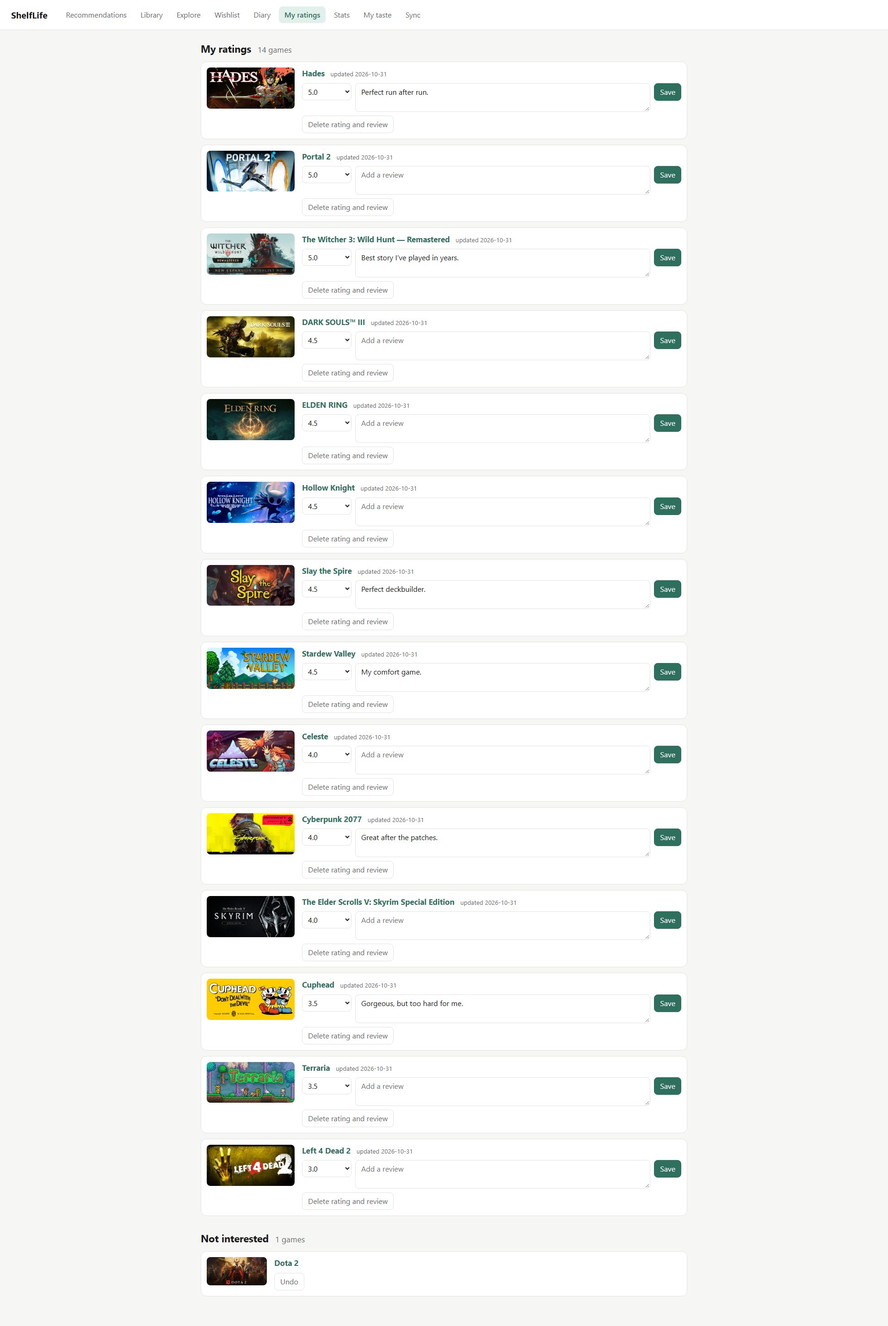
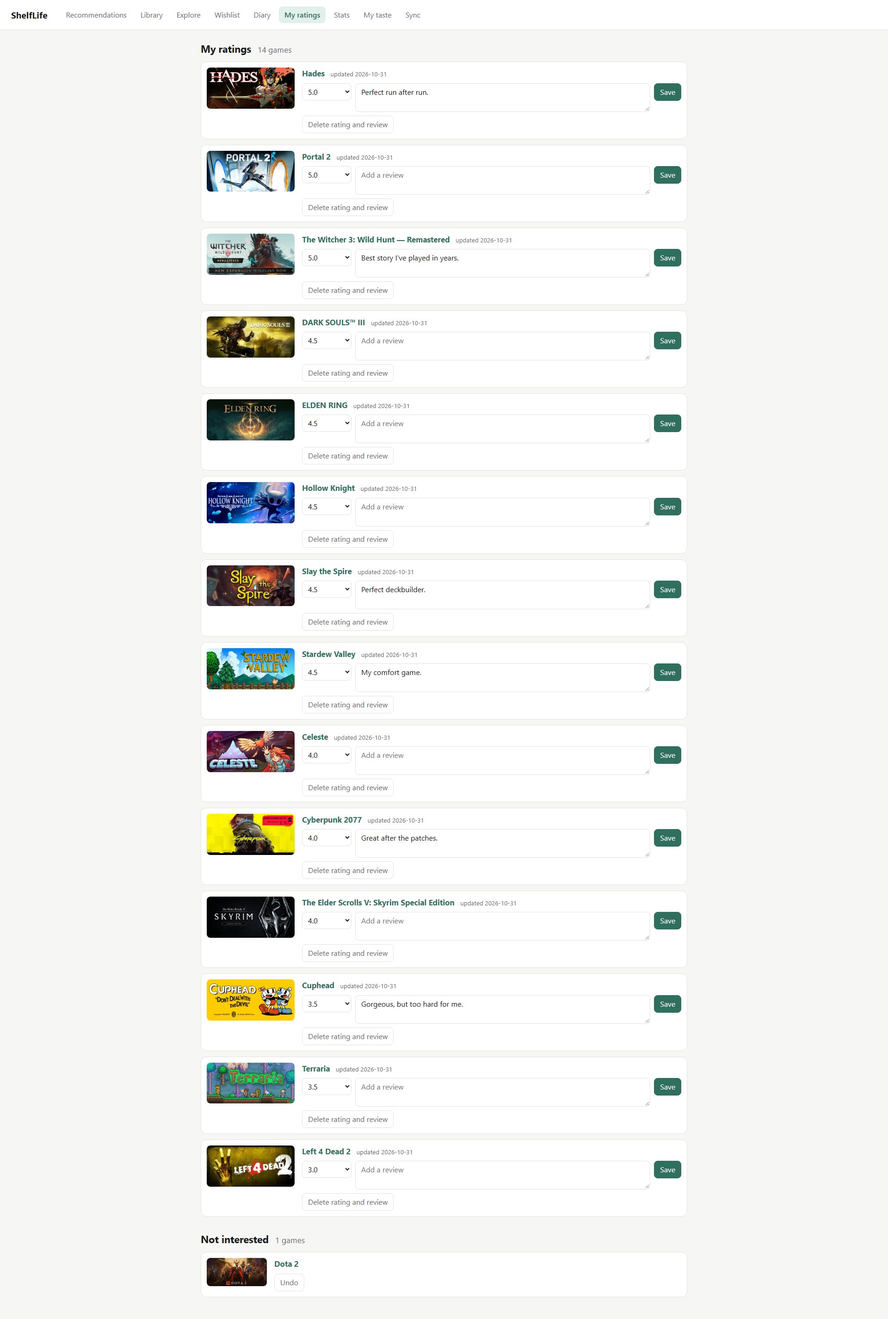
Update the README and retake the screenshots
The README now describes the app as it is: setup reduced to filling in .env, starting the web app and pressing Sync; the seven Sync steps, including how long other players play each game; how play is scored against your library and the game's own players; the three taste modes and how the mix shares them; the cleaned description words; hiding games for adults; the host check; the evaluation tool; and what is stored and sent (five numbers per game from reviewers' hours, never who wrote a review). Screenshots retaken on the demo data, which now has descriptions and other players' hours.

diff --git a/README.md b/README.md
@@ -7,16 +7,16 @@
 
 **Status:** early development. It runs entirely on your own computer: nothing is hosted, and your data never leaves your machine.
 
-Steam knows what you own and how long you've played, but not what you *thought* of a game, and it can't tell "I loved this 6-hour game" from "I gave up on this 150-hour RPG." ShelfLife combines your ratings, your playtime, and your achievements (and when you unlocked them) into a taste it learns from your games one by one, then recommends games from your backlog, your Steam Family library, and games you don't own yet.
+Steam knows what you own and how long you've played, but not what you *thought* of a game, and it can't tell "I loved this 6-hour game" from "I gave up on this 150-hour RPG." ShelfLife combines your ratings with how you played each game (your hours against your other games and against how long the game's own players play it, your achievements, and when you played) into a taste it learns from your games one by one, then recommends games from your backlog, your Steam Family library, your wishlist and games you don't own yet.
 
 ## Features
 
-- **Steam import:** owned games, playtime, store details and descriptions, community tags, review counts and achievements.
+- **Steam import:** owned games, playtime, store details and descriptions, community tags, review counts, achievements, and how long each game's players usually play it.
 - **Family Sharing import** (optional): games you can play through a Steam Family.
 - **Wishlist:** your Steam wishlist, read by Sync and ranked by how well each game fits you (it never teaches your taste).
 - **Diary:** 0.5–5 star ratings, reviews, "not interested" marks, a status (playing, played, dropped) with dates, and favorites, stored locally.
-- **Recommendations:** four lists (backlog, family, your wishlist, games you don't own), each pick with a reason.
-- **Web app:** recommendations, a library you can rate and edit in place, an Explore page with a button to find more games, similar games for any game, a wishlist page, a diary, stats, game pages, your taste profile, and a Sync button.
+- **Recommendations:** four lists (backlog, family, your wishlist, games you don't own), each pick with a reason. Learn from your ratings, from how you play, or from both.
+- **Web app:** recommendations, a library you can rate and edit in place, an Explore page with a button to find more games, similar games for any game, a wishlist page, a diary, stats, game pages, your taste profile, a switch to hide games for adults, and a Sync button.
 
 ## Screenshots
 
@@ -30,7 +30,7 @@ Taken on demo data: popular Steam games with made-up playtime, ratings, diary en
 
 ![Library](docs/screenshots/library.jpg)
 
-**Explore**, for games you don't own: a panel to find more games from Steam, and a tag picker with "all of / any of" (here filtered to Platformer or Puzzle):
+**Explore**, for games you don't own: a panel to find more games from Steam, and a tag picker with "all of / any of":
 
 ![Explore](docs/screenshots/explore.jpg)
 
@@ -44,13 +44,13 @@ Taken on demo data: popular Steam games with made-up playtime, ratings, diary en
 
 ![Stats](docs/screenshots/stats.jpg)
 
-**Game page**, showing why a game fits you, how you played it, and where you are with it, and **My ratings**:
+**Game page**, showing why a game fits you, how much your play says you liked it (against your other games and against the game's own players), and where you are with it, and **My ratings**:
 
 ![Game page](docs/screenshots/game-page.jpg)
 
 ![My ratings](docs/screenshots/my-ratings.jpg)
 
-**My taste**, the tag profile behind it all and the choice of what it learns from, and **Sync**, which brings everything up to date in the background:
+**My taste**, the tag profile behind it all, what it learns from, and the switch for games for adults, and **Sync**, which brings everything up to date in the background:
 
 ![My taste](docs/screenshots/taste.jpg)
 
@@ -75,7 +75,7 @@ pip install -r requirements.txt
 
 - **API key:** create one at <https://steamcommunity.com/dev/apikey> (any domain name works, e.g. `localhost`). Keep it private.
 - **SteamID:** your SteamID64, a 17-digit number (`XXXXXXXXXXXXXXXXX`). If your profile address has a number after `/profiles/`, that's it; otherwise paste your profile address into <https://steamid.io>.
-- **Privacy:** in your Steam profile's *Privacy Settings*, set **Game details** to **Public**.
+- **Privacy:** in your Steam profile's *Privacy Settings*, set **Game details** to **Public** (and the wishlist too, if you want it read).
 
 **3. Configure**
 
@@ -89,31 +89,30 @@ STEAM_ID=your_64_bit_steam_id_here
 **4. Run**
 
 ```bash
-python -m scripts.top_games      # quick check that your key works
-python -m scripts.sync           # library, store details and tags
-python -m scripts.achievements   # achievements and when you unlocked them
-python -m scripts.discover       # a pool of well-reviewed games you don't own
 python -m scripts.web            # then open http://127.0.0.1:8000
 ```
 
-You can also sync from the web app: its **Sync** page runs the same steps (library, wishlist, achievements, store details, descriptions, review counts) in the background with a progress bar and a Stop button, re-reads what could have changed, and carries on where it left off if you stop it. The fetching scripts are deliberately slow to respect the services' limits (about 3 seconds per game, so 300 games take roughly 15 minutes). They save progress as they go: stop with Ctrl-C and run again to continue. Re-run `sync` and `achievements` any time to refresh your playtime.
+Open the **Sync** page and press **Sync now**. It reads your library, wishlist, achievements, store details, game descriptions, review counts and how long other players play your games, in the background with a progress bar and a Stop button, and carries on where it left off if you stop it. It is deliberately slow to respect the services' limits, so the first sync of a few hundred games takes a while (the page says roughly how long); later syncs only re-read what could have changed. Then use **Find more games** on Explore to add games you don't own.
+
+The same steps exist as command-line scripts (below), for example `python -m scripts.top_games` as a quick check that your key works. Your database is `shelflife.db` in the project folder, wherever you start ShelfLife from.
 
 **If something goes wrong**
 
 - *"No games returned"*: *Game details* isn't Public, or `STEAM_ID` isn't the 17-digit ID.
 - *"Steam rejected the API key"*: check `STEAM_API_KEY`.
-- *"rate limiting"*: wait a few minutes and run the script again.
-- *Start over*: delete `shelflife.db` (your ratings live in it) and run step 4 again.
+- *"rate limiting"*: wait a few minutes and sync again; nothing read so far is lost.
+- *Start over*: delete `shelflife.db` (your ratings live in it) and sync again.
 
 ### Other commands
 
 | Command | What it does |
 |---|---|
 | `python -m scripts.sync [--limit N] [--fill-tags] [--descriptions]` | Import the library; fetch details and tags; or read the store text of games that lack it |
+| `python -m scripts.achievements` | Achievements and when you unlocked them |
+| `python -m scripts.discover [--per-tag N] [--tags "A,B"]` | Find new games you don't own (the same as Explore's button) |
+| `python -m scripts.wishlist` | Read your Steam wishlist (needs only your SteamID) |
 | `python -m scripts.scores [N]` | Rank your played games by engagement score |
 | `python -m scripts.recommend [N]` | Print recommendations in the terminal |
-| `python -m scripts.wishlist` | Read your Steam wishlist (needs only your SteamID) |
-| `python -m scripts.discover [--per-tag N] [--tags "A,B"]` | Find new games you don't own (the same as Explore's button) |
 | `python -m scripts.feedback not-interested "Name"` | Dismiss a game (also `undo`, `list`) |
 | `python -m scripts.import_family [file]` | Import a Family Sharing export (below) |
 | `python -m scripts.hours [--template]` | Enter family-game hours from a file |
@@ -121,17 +120,19 @@ You can also sync from the web app: its **Sync** page runs the same steps (libra
 
 ## Web app
 
-`python -m scripts.web`, then open <http://127.0.0.1:8000>. It listens only on your own machine and has no login, so don't expose it to a network.
+`python -m scripts.web`, then open <http://127.0.0.1:8000>. It listens only on your own machine, answers only to `127.0.0.1` and `localhost`, and has no login, so don't expose it to a network. Run it as a single process.
 
 - **Recommendations:** your backlog, family, wishlist and discovery lists, paged, each pick with the games and tags behind it. Rate or dismiss from the card.
 - **Library:** your owned and family games with covers. Set a rating or a status, or type hours for family games, right in the row. Search by name, filter by tags or status, sort by most played or **recently played**, or use the **Recommended** filter to keep the unplayed games that fit you best (top 50%, 25% or 10%).
-- **Wishlist:** your Steam wishlist ranked by how well each game fits your taste, with your own rank and the date you added each one. Search, the tag picker and the best-fit cut work as in Explore, and you can sort by fit, your own order, newest added, reviews or name. It is read by Sync (the wishlist must be public on Steam) and only shows games whose store details have arrived. Wishlisted games also get a badge and an "only my wishlist" filter in Explore, a "From your wishlist" list on the home page (instead of in "To discover"), and a note on their game page. Wanting a game is not liking it, so a wishlist never changes your taste profile.
+- **Wishlist:** your Steam wishlist ranked by how well each game fits your taste, with your own rank and the date you added each one. Search, the tag picker and the best-fit cut work as in Explore, and you can sort by fit, your own order, newest added, reviews or name. It is read by Sync (the wishlist must be public on Steam) and only shows games whose store details have arrived. Wishlisted games also get a badge and an "only my wishlist" filter in Explore, a "From your wishlist" list on the home page (instead of in "To discover"), and a note on their game page. Wanting a game is not liking it, so a wishlist never changes your taste.
 - **Explore:** games you don't own, ranked by fit, with the same filter, search, tags and sorting. **Find more games** adds new ones for the genres or tags you pick (or the tags you like most), or with no tags at all (the best-reviewed games from SteamSpy's list of popular games), for a number of games you choose, and shows its progress. Every game page has **Games like this** (Explore ranked by how close games are to that one) and a button to search Steam for new games like it.
 - **Diary:** one tab each for playing, played, dropped and your favorites, newest first, paged, with search and a tag filter. Set a status, optional dates and a favorite on a game's page; dates are never filled in for you. "Played" means finished or played as much as you wanted, so it fits endless multiplayer games too.
 - **Tags:** pick several tags in the Library, Explore or Diary, and choose whether a game needs all of them or any of them. Tags match whole and ignore case, a game "has" a tag if it is among its 20 most voted, and the box suggests the tags that exist.
-- **Sync:** one button for your library, achievements, store details, game descriptions and review counts, with progress and a Stop button. A sync re-reads what could have changed: achievements for games you played since they were last read, or not read for 30 days (developers add achievements); store details for new games, games that came back empty a week ago, and the 30 oldest when they are over 90 days old; the store's "About this game" text for games that have their details but not the text yet (a one-time catch-up, one store call per game; new games get it with their details); and review counts for every game that has none or whose counts are a month old. **Check everything again** ignores those limits and re-reads every game (slow, and the page says how long). It saves as it goes, so a stopped sync resumes, it needs `STEAM_API_KEY` and `STEAM_ID` in `.env`, and it never runs at the same time as a game search.
+- **Sync:** one button, seven steps: your library, wishlist, achievements, store details, game descriptions, review counts, and how long other players play each game you've played. A sync re-reads what could have changed: achievements for games you played since they were last read, or not read for 30 days; store details for new games, games that came back empty a week ago, and the 30 oldest when they are over 90 days old; descriptions once; review counts a month old; other players' hours every six months. **Check everything again** ignores those limits (slow, and the page says how long). It saves as it goes, needs `STEAM_API_KEY` and `STEAM_ID` in `.env`, and never runs at the same time as a game search.
 - **Stats:** games and hours in your library, your diary by status, games finished per year, how you rate, and your most played games.
-- **Game page, My ratings, My taste:** why a game fits you and how you played it; your ratings and reviews (edit or delete in place); and the tag profile behind it all, where you also choose whether your taste learns from your ratings, from how you play, or from both.
+- **Game page:** why a game fits you, the closest games you liked, how you played it (and how much that play says you liked it, against your other games and the game's own players), your verdict, status and favorite.
+- **My ratings:** your ratings and reviews, paged, to edit or delete in place, and the games you marked "not interested".
+- **My taste:** the tags your taste leans toward and away from, what it learns from (your ratings, how you play, or both), and **Hide games for adults** (on by default): games whose community tags are mostly about sexual content are left out of recommendations and Explore, while games that merely have adult scenes (Cyberpunk 2077, Baldur's Gate 3) stay. Your library, diary and wishlist page always show every game.
 
 ## Family Sharing (optional)
 
@@ -139,7 +140,7 @@ Steam's Web API only lists games on your own account. ShelfLife imports Family S
 
 1. Log in at <https://store.steampowered.com>, open DevTools (F12) > Console, paste [`tools/export_family_library.js`](tools/export_family_library.js) and press Enter. It downloads `family-library.json`.
 2. Put that file in a `data/` folder (create it) and run `python -m scripts.import_family`.
-3. Run `python -m scripts.sync` and `python -m scripts.achievements` again.
+3. Sync again.
 
 The script gets a short-lived token from the Steam store using your own cookies and calls `IFamilyGroupsService/GetSharedLibraryApps`. The token stays in the tab's memory and is never printed, saved or sent anywhere. These endpoints are undocumented by Valve and may change. The export lists which games your family members own, so keep it private.
 
@@ -147,7 +148,7 @@ The script gets a short-lived token from the Steam store using your own cookies 
 
 ## Data and terms
 
-Data comes from the Steam Web API (library, playtime, achievements), the Steam store (details, covers), Valve's `IUserReviewsService` (review counts), and SteamSpy (community tags, 1 request/second). ShelfLife follows the [Steam Web API Terms of Use](https://steamcommunity.com/dev/apiterms): your key stays in `.env` on your machine, data is fetched only when you run a command or press a button, everything is stored locally, and it is not affiliated with or endorsed by Valve. A few endpoints used (Steam store `appdetails`, the family export) are undocumented and may change.
+Data comes from the Steam Web API (library, playtime, achievements), the Steam store (details, descriptions, covers), Valve's `IUserReviewsService` (review counts, and how long reviewers played), and SteamSpy (community tags, 1 request/second). ShelfLife follows the [Steam Web API Terms of Use](https://steamcommunity.com/dev/apiterms): your key stays in `.env` on your machine, data is fetched only when you run a command or press a button, everything is stored locally, and it is not affiliated with or endorsed by Valve. A few endpoints used are undocumented and may change (see Privacy).
 
 Personal data lives in `shelflife.db`, `.env` and the `data/` folder, all git-ignored.
 
@@ -158,45 +159,54 @@ ShelfLife runs entirely on your own computer. It has no server, no account, no a
 **What it stores, and where**
 
 - `.env`: your Steam API key and SteamID.
-- `shelflife.db`: your library (games, hours, when you last played, achievement counts and when you unlocked them), your wishlist (game ids, your own rank and the date you added each), the hours you type in for family games, which games are shared with you through Family Sharing, your diary (ratings, reviews, statuses and dates, favorites, "not interested"), your settings, and public store data for each game (names, descriptions including the store's "About this game" text, tags, review counts, cover addresses).
+- `shelflife.db`: your library (games, hours, when you last played, achievement counts and when you unlocked them), your wishlist (game ids, your own rank and the date you added each), the hours you type in for family games, which games are shared with you through Family Sharing, your diary (ratings, reviews, statuses and dates, favorites, "not interested"), your settings, and public store data for each game (names, descriptions including the store's "About this game" text, tags, review counts, cover addresses, and five numbers summarising how long its reviewers have played it; never who wrote a review or what it says).
 - `data/`: files you create or import, such as the Family Sharing export (it lists which games your family members own, so keep it private) and old CSV files.
 
 Delete `.env`, `shelflife.db` and `data/` and nothing of yours is left.
 
 **What it sends, and to whom** (only when you run a command or press a button)
 
-- **Valve's Steam Web API** (`api.steampowered.com`): your API key and SteamID, to read your own library and achievements, and your key to look up game names. Your SteamID alone (no key) is sent to read your wishlist. Review counts and global achievement rates are asked for by game id alone.
+- **Valve's Steam Web API** (`api.steampowered.com`): your API key and SteamID, to read your own library and achievements, and your key to look up game names. Your SteamID alone (no key) is sent to read your wishlist. Review counts, reviewers' hours and global achievement rates are asked for by game id alone.
 - **The Steam store** (`store.steampowered.com`) and **SteamSpy** (`steamspy.com`): game ids and tag names only. They never receive your key, SteamID, ratings or diary.
 - **Your browser** loads cover images from Steam's servers when you open a page.
-- Nothing else: no outside fonts, scripts or analytics. The web app listens only on `127.0.0.1` and has no login, so don't expose it to a network.
+- Nothing else: no outside fonts, scripts or analytics. The web app listens only on `127.0.0.1`, answers only to `127.0.0.1` and `localhost` (so another website can't reach it by pointing its own name at your computer), and has no login, so don't expose it to a network.
 
 **Steam's terms**
 
-ShelfLife is a personal tool. Each person uses their own API key (it is personal to you, so don't share it or commit it) to read their own account, within Valve's limit of 100,000 calls a day (a full sync uses a few hundred), and it is not affiliated with or endorsed by Valve. The [Steam Web API Terms of Use](https://steamcommunity.com/dev/apiterms) ask applications to say what Steam data they store; the list above is that statement.
+ShelfLife is a personal tool. Each person uses their own API key (it is personal to you, so don't share it or commit it) to read their own account, within Valve's limit of 100,000 calls a day (a full sync uses a few hundred, plus up to five review pages a game for players' hours), and it is not affiliated with or endorsed by Valve. The [Steam Web API Terms of Use](https://steamcommunity.com/dev/apiterms) ask applications to say what Steam data they store; the list above is that statement.
 
-Most of what ShelfLife reads comes from Valve's documented Web API. A few things come from endpoints Valve doesn't document: the store's `appdetails` endpoint, the review counts, the tag votes read from a game's store page when SteamSpy has none, your wishlist (`IWishlistService`), and the Family Sharing export. They are read-only lookups, throttled and run only when you ask (the family export reads only your own account). Because they are undocumented they may change or stop working, and the [Steam Subscriber Agreement](https://store.steampowered.com/subscriber_agreement/) has a general rule about bots and scripts on Steam, whose examples are about cheating and account abuse. Using them is your choice; only the Family Sharing import is optional.
+Most of what ShelfLife reads comes from Valve's documented Web API. A few things come from endpoints Valve doesn't document: the store's `appdetails` endpoint, the reviews (counts and reviewers' hours), the tag votes read from a game's store page when SteamSpy has none, your wishlist (`IWishlistService`), and the Family Sharing export. They are read-only lookups, throttled and run only when you ask (the family export reads only your own account). Because they are undocumented they may change or stop working, and the [Steam Subscriber Agreement](https://store.steampowered.com/subscriber_agreement/) has a general rule about bots and scripts on Steam, whose examples are about cheating and account abuse. Using them is your choice; only the Family Sharing import is optional.
 
 Game names, store data and cover art belong to Valve and the game publishers. The licence below covers ShelfLife's code only.
 
 ## How recommendations work
 
-**1. Engagement score.** For each game you've played, a sum of points (weights in `shelflife/score.py` and `shelflife/recency.py`):
+**1. How much your play says you liked a game** (`shelflife/play.py`). Hours alone mislead: two hours can be all of a short game, and a hundred hours of an endless one can be ordinary. So each signal is placed among comparable play, as a percentile:
 
-| Signal | Points |
+| Signal | Compared with |
 |---|---|
-| Playtime | `log10(1 + hours)`: 10h = 1, 100h = 2, 1000h = 3 |
-| Achievements | up to 2 × share unlocked (games with 10+ achievements) |
-| Rare achievement | +1 if you hold one under 5% of players have, +0.5 if under 10% |
-| Still playing | +0.5 if played in the last two weeks |
-| Recency | +0.5 (all play is current) to −0.5 (ancient); 0 with no date evidence |
+| Hours | your other played games, and (up to half) the hours the game's own reviewers have played it |
+| Achievements unlocked | your other games (games with 10+ achievements) |
+| Rarest achievement you hold | your other games (rarer = more devoted) |
+| When you played | a small shift up for current play, down for play long past, from your achievement unlock dates |
 
-*Recency:* Steam gives only lifetime hours and a last-played date, and one minute today resets that date. So the unlock dates of your achievements show *when* you really played: each unlock counts less the older it is (halving every 3 years). A game you play right now counts as fully current.
+A game's play score is the average of the signals it has (a missing one is left out, not counted as zero), so 50% is your typical played game. Other players' hours come from up to 500 of the game's reviews, positive and negative reviewers weighed by the game's real share, kept as percentiles so a few players with thousands of idle hours move only the top end. They count for at most half, because people who love a game keep playing it long after the end. Games under an hour are your backlog, not a verdict.
 
-**2. How much you liked each game.** Each game you have a verdict on gets one number from −1 (hated) to +1 (loved). What it is built from is your choice, on the My taste page: *Mix of both* (the default), *Your ratings only* or *How you play only*. In the mix, a game you rated counts by its rating, `(rating − 3) / 2`, from −1 to +1, however much you played it. A game you played but did not rate counts as the rating its play suggests: how much you played it (the engagement score scaled from 0 to 1) times what play has been worth in your own rated games, which is learned from them: a line through zero fitted to the games you both rated and played (rating against how much you played), started at one half and pulled toward your games as they come in. If the games you play most are the ones you rate high, play counts for more, up to a full 5-star rating; if you play games you rate low, it counts for less, down to nothing. No fixed split between the two. "Not interested" counts as 2 stars and a favorite as 5 until you rate the game. In *ratings only* a game you did not rate teaches nothing; in *how you play only* ratings, favorites and "not interested" are ignored for taste ("not interested" still hides the game). A status (playing, played, dropped) is a record only: it takes the game out of the recommendations but does not change your taste, because "dropped" can mean a story game quit halfway or an endless multiplayer game you left after hundreds of hours.
+The older **engagement score** (`shelflife/score.py`: points for hours, achievements, rare achievements, current play and recency) is still shown in the Library and on game pages.
 
-**3. Learning your taste.** Every game is described two ways: by its tags, each counting by how relevant it is to the game (its votes relative to the game's top tag, squared, for the top 15 tags) and how rare it is in your library; and by the words of the store's "About this game" text, each counting by how rare it is across all games. Two games are as alike as those descriptions are, half tags and half words (`shelflife/learned.py`, `TEXT_WEIGHT`), so two games with different tags but the same story still match, and a sequel matches its original by the names and characters they share. A ridge regression then learns from the number above for every game you have a verdict on, which kinds of games you like, and predicts it for every other game. Because it is fitted to your games one by one, a game very close to a favourite stays close to it; the old way, one average tag profile, watered every favourite down. It learns more with every game you rate, and nothing is sent anywhere: it is a few hundred games of arithmetic, kept until your ratings or the games change. Until the descriptions have been read (the Sync page does it, once), games without text are compared on their tags alone. The tag profile (your games' tags added up by those numbers) is still what the My taste page shows and what picks the tags for a search; the "Because you played…" lines name the games you liked that a pick is closest to. On a test with 147 of the owner's games, predicting how much each was liked from the other 146, the old tag profile scored a rank correlation of +0.26, the learned taste on tags alone +0.41, and with the descriptions +0.43. Predicting the star ratings of 142 rated games the same way, ratings only scored +0.44, the mix +0.45 and how you play alone +0.06: play is a weak guide to how you would rate a game, which is why the mix lets it speak only for games you did not rate. A small sample, so take the exact numbers lightly.
+**2. What your taste learns from.** Your choice, on the My taste page:
 
-**4. Finding new games.** Explore's **Find more games** button (and `python -m scripts.discover`) works like this: SteamSpy lists every game under a tag, with its review counts. That list is loose (any game with even a few votes for the tag is in it), so games you already have and games with under 300 reviews are dropped, the rest are ranked by the lower bound of their positive-review share (more reviews rank higher at equal praise), and then, going down the ranking with the tags taking turns, each game's own tag votes are read and the game is kept only if the searched tag is among its 10 most voted. The others are remembered, with their tags, so they are not fetched again. Kept games get their store details fetched, about 5 seconds a game in all, and then take part in the rankings. For "games like this one", the tags searched are that game's most distinctive ones and a game must also be at least 15% similar to it. SteamSpy matches tag names in a particular letter case (and a few under older names), so several spellings are tried. Without tags, the search reads SteamSpy's popularity-ordered list instead (up to 3 pages of 1,000 games, a minute apart as SteamSpy asks, and only as many as needed) and keeps the best-reviewed games you don't have, with no tag check; raise "With at least" to 1,000 reviews to favour better-known games.
+- *Your ratings only*: star ratings, `(rating − 3) / 2`, from −1 to +1. Nothing else.
+- *How you play only*: the play score of every game you played, from −0.5 (far less than usual) to +1 (far more), 0 being your typical game. Ratings, favorites and "not interested" are ignored.
+- *Mix of both* (the default): a taste learned from your ratings and a taste learned from your play, added up. Each counts by how much of your ratings it explains, measured with every rated game left out in turn (its squared correlation with them), starting from two thirds ratings, one third play until there are enough ratings to tell. Here a favorite you didn't rate counts as 5 stars and "not interested" as 2.
+
+A status (playing, played, dropped) is a record only: it takes the game out of the recommendations but never changes your taste. "Not interested" always hides the game.
+
+**3. Learning your taste** (`shelflife/learned.py`). Every game is described two ways: by its tags, each counting by how relevant it is to the game (its votes relative to the game's top tag, squared, for the top 15 tags) and how rare it is in your library; and by the words of the store's "About this game" text that tell games apart (store boilerplate dropped; words used by at least 3 games and at most 15% of them; a description left with fewer than 20 such words, such as one written in another script, counts as none). Two games are as alike as those descriptions are, half tags and half words, so two games with different tags but the same story still match, and a sequel matches its original by the names they share. A ridge regression then learns, from every game you have a verdict on, which kinds of games you like, and predicts that for every other game. Because it is fitted to your games one by one, a game very close to a favourite stays close to it. Nothing is sent anywhere: it is a few hundred games of arithmetic, kept between pages until your data changes.
+
+**How good is it?** `python tools/evaluate.py` predicts every game you rated (and every game you ranked, if you keep `data/rankings.csv`) with everything about that game left out, and compares the predictions with your own verdicts. On the owner's 144 ratings the rank correlation is about +0.43 for ratings only, +0.41 for the mix, and +0.12 for play alone: play is a weak guide to how you'd rate a game, which is why the mix gives it a small share. One person's games, so take the exact numbers lightly.
+
+**4. Finding new games.** Explore's **Find more games** button (and `python -m scripts.discover`) works like this: SteamSpy lists every game under a tag, with its review counts. That list is loose (any game with even a few votes for the tag is in it), so games you already have and games with under 300 reviews are dropped, the rest are ranked by the lower bound of their positive-review share (more reviews rank higher at equal praise), and then, going down the ranking with the tags taking turns, each game's own tag votes are read and the game is kept only if the searched tag is among its 10 most voted. The others are remembered, with their tags, so they are not fetched again. Kept games get their store details fetched, about 5 seconds a game in all, and then take part in the rankings. For "games like this one", the tags searched are that game's most distinctive ones and a game must also be at least 15% similar to it. SteamSpy matches tag names in a particular letter case (and a few under older names), so several spellings are tried. Without tags, the search reads SteamSpy's popularity-ordered list instead (up to 3 pages of 1,000 games, a minute apart as SteamSpy asks, and only as many as needed) and keeps the best-reviewed games you don't have, with no tag check.
 
 **5. Scoring.**
 
@@ -205,7 +215,7 @@ score = predicted_liking(game) × quality
 quality = (Wilson lower bound of the positive-review share) ^ 2
 ```
 
-The predicted liking, stretched (`MATCH_SCALE`) so that a close match reads as one, is shown as the "match" on every pick; it is 0 for a game unlike anything you have a verdict on, and below 0 for one that resembles games you did not like. The Wilson bound is cautious with few reviews: about 0.9 at 95% positive, 0.5 at 70%, 0.36 with no review data. Candidates are backlog games (owned, under an hour played), family games you haven't played, and games you don't own (300+ reviews). Other editions of games you already have are skipped.
+The predicted liking, stretched so that a close match reads as one, is shown as the "match" on every pick; it is 0 for a game unlike anything you have a verdict on, and below 0 for one that resembles games you did not like. The Wilson bound is cautious with few reviews: about 0.9 at 95% positive, 0.5 at 70%, 0.36 with no review data. Candidates are backlog games (owned, under an hour played), family games you haven't played, and games you don't own (300+ reviews); other editions of games you already have are skipped, and so are games for adults while that switch is on.
 
 ## Development
 
@@ -214,7 +224,7 @@ pip install -r requirements-dev.txt
 python -m pytest
 ```
 
-The tests use a temporary database and folder (never your own data) and make no network calls. Stack: Python, FastAPI with Jinja templates, SQLite through SQLAlchemy, pytest, GitHub Actions. The data model is in `shelflife/models.py`.
+The tests use a temporary database and folder (never your own data) and can't reach the network: any call that gets past the fakes fails the test. Stack: Python, FastAPI with Jinja templates, SQLite through SQLAlchemy, pytest, GitHub Actions. The data model is in `shelflife/models.py`. `python tools/evaluate.py` measures how well the taste predicts your own ratings (see above), so a change to the scoring can be judged by numbers.
 
 To regenerate the screenshots, `python tools/make_demo_db.py demo.db` builds the demo database (real games fetched from Steam; made-up play history, ratings, diary entries and wishlist), and `DATABASE_URL=sqlite:///demo.db python -m scripts.web --port 8001` runs the app on it. For the Sync page to show its buttons, also set any placeholder `STEAM_API_KEY` and `STEAM_ID` for that run; nothing is sent unless you press a button.
 
